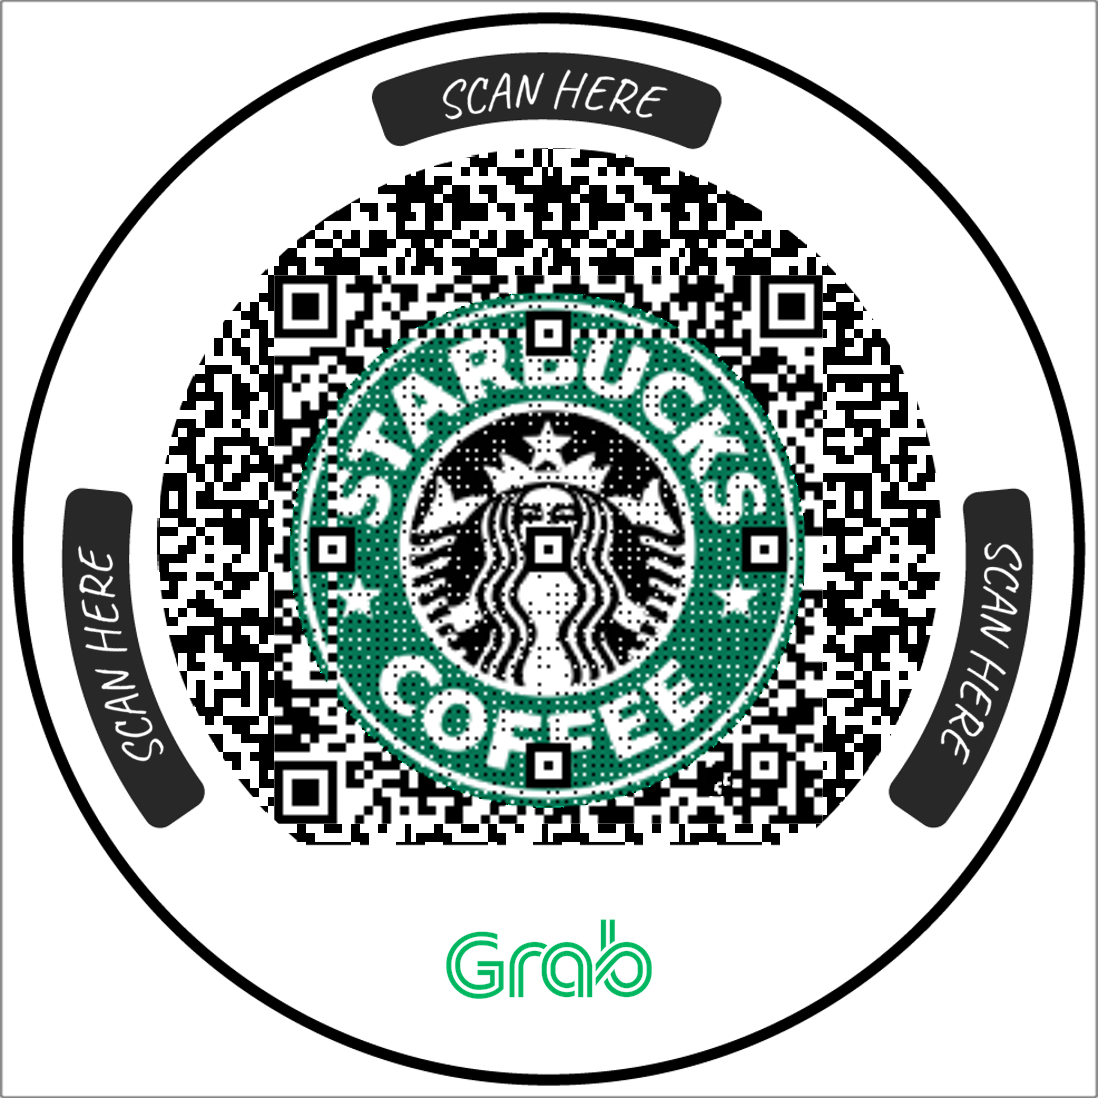
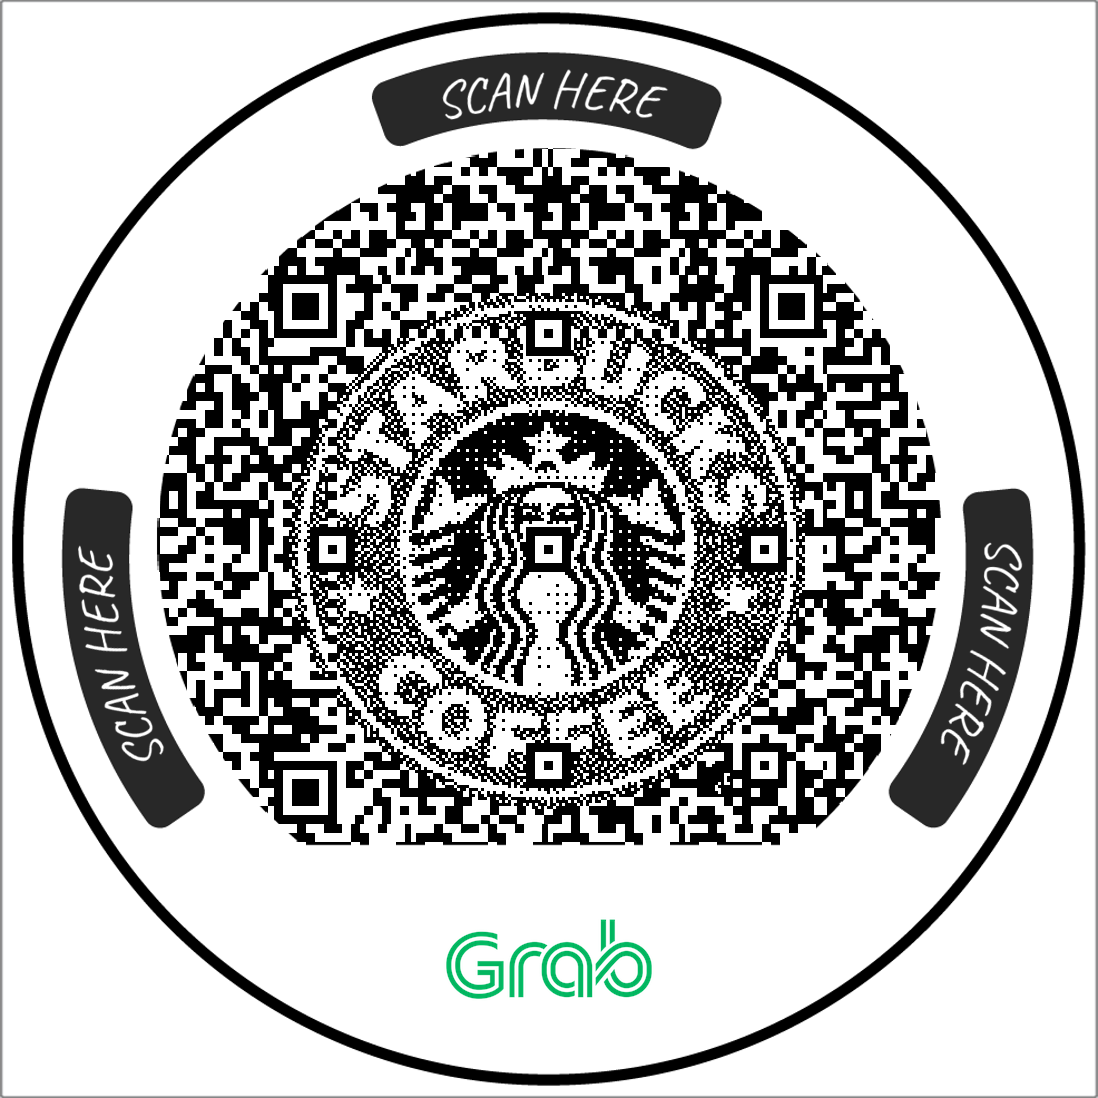
finalize bug fix colorize

Changed region(s): [[0.2477, 0.2477, 0.7432, 0.7432]]

diff --git a/qr.py b/qr.py
@@ -57,7 +57,7 @@ version, level, qr_name = amzqr.run(
     version=1,
     level='H',
     picture=middle_logo_name,
-    colorized=True,
+    colorized=False,
     contrast=1.0,
     brightness=1.0,
     save_name='temp.png',
